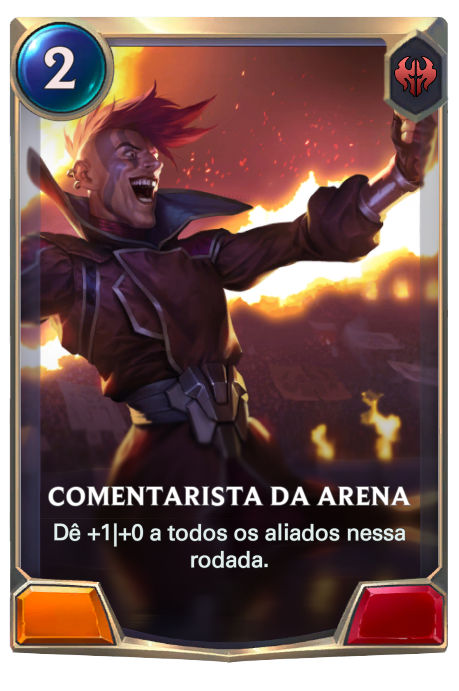
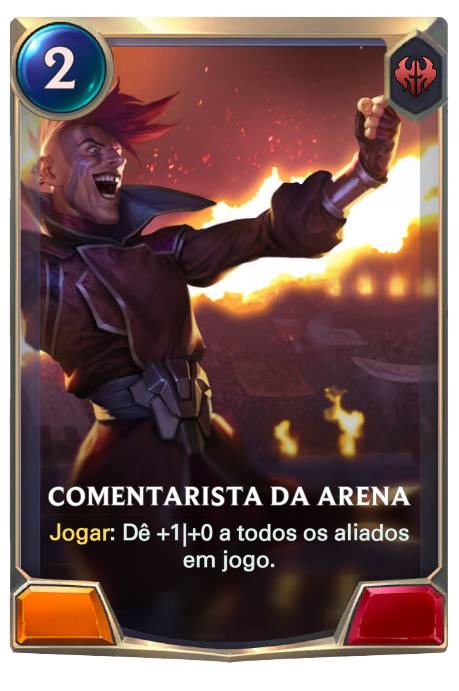
Instanciadas cartas de noxus.

diff --git a/LegendsOfRuneterra/src/menu/Menu.java b/LegendsOfRuneterra/src/menu/Menu.java
@@ -143,8 +143,17 @@ public class Menu {
         Garen garen = new Garen();
         demacia_units.add(garen);
 
+        Lucian lucian = new Lucian();
+        demacia_units.add(lucian);
+
         Tryndamere tryndamere = new Tryndamere();
         freljord_units.add(tryndamere);
+
+        Leblanc leblanc = new Leblanc();
+        noxus_units.add(leblanc);
+
+        Darius darius = new Darius();
+        noxus_units.add(darius);
 
 
         //INICIO SEGUIDORES DE DEMACIA
@@ -292,6 +301,76 @@ public class Menu {
         Effect[] effectGemaDeMana = {new Effect(20, 3, Trigger.PLAY)};
         Spell gemaDeMana = new Spell("Gema de Mana", "", 5, effectGemaDeMana, Region.FRELJORD, "/assets/freljord/gema-de-mana.png");
         freljord_spells.add(gemaDeMana);
+
+
+        //INICIO SEGUIDORES DE NOXUS
+
+
+        Follower retaguardaDaLegiao = new Follower("Retaguarda da Legiao", "", 1, 3, 2, Region.NOXUS, "/assets/noxus/retaguarda-da-legiao.png");
+        noxus_units.add(retaguardaDaLegiao);
+
+
+        Trait[] traitsEspia = {Trait.ELUSIVE};
+        Follower espia = new Follower("Espia", "", 1, 1, 1, Region.NOXUS, traitsEspia, "/assets/noxus/espia.png");
+        noxus_units.add(espia);
+
+
+        Effect[] effectComentaristaDaArena = {new Effect(0, 1,0, Trigger.PLAY)};
+        Follower comentaristaDaArena = new Follower("Comentarista da Arena", "Dê +1/+0 a todos os aliados em jogo.", 2, 2, 2, Region.NOXUS, effectComentaristaDaArena, "/assets/noxus/comentarista-da-arena.png");
+        noxus_units.add(comentaristaDaArena);
+
+
+        Follower trifariano = new Follower("Trifariano", "", 3, 5, 3, Region.NOXUS, "/assets/noxus/trifariano.png");
+        noxus_units.add(trifariano);
+
+
+        Effect[] effectHomemBomba = {new Effect(11, 1, Trigger.LAST_BREATH)};
+        Follower homemBomba = new Follower("Homem Bomba", "Quando eu morrer, cause 1 de dano ao nexus inimigo", 2, 3, 2, Region.NOXUS, effectHomemBomba, "/assets/noxus/homem-bomba.png");
+        noxus_units.add(homemBomba);
+
+
+        Follower capitaoFarron = new Follower("Capitao Farron", "", 7, 8, 9, Region.NOXUS, "/assets/noxus/capitao-farron.png");
+        noxus_units.add(capitaoFarron);
+
+
+        Trait[] traitQuebraEscudos = {Trait.DOUBLE_ATTACK};
+        Follower quebraEscudos = new Follower("Quebra Escudos", "", 5, 4, 3, Region.NOXUS, traitQuebraEscudo, "/assets/noxus/quebra-escudos.png");
+
+
+        // FEITIÇOS DE NOXUS
+
+
+        Effect[] effectDeterminacao = {new Effect(1, 3, 2, Trigger.PLAY)};
+        Spell determinacao = new Spell("Determinacao", "Dê +3/+2 a um aliado nessa rodada.", 2, effectDeterminacao, Region.NOXUS, "/assets/noxus/determinacao.png");
+        noxus_spells.add(determinacao);
+
+
+        Effect[] effectDizimar = {new Effect(11, 4, Trigger.PLAY)};
+        Spell dizimar = new Spell("Dizimar", "Dê 3 de dano ao nexus inimigo.", 5, effectDizimar, Region.NOXUS, "/assets/noxus/dizimar.png");
+        noxus_spells.add(dizimar);
+
+
+        Effect[] effectFioDeLamina = {new Effect(21, 1, Trigger.PLAY)};
+        Spell fioDeLamina = new Spell("Fio de Lamina", "Dê 1 de dano em qualquer coisa.", 1, effectFioDeLamina, Region.NOXUS, "/assets/noxus/fio-de-lamina.png");
+        noxus_spells.add(fioDeLamina);
+
+
+        Effect[] effectFervorNoxiano = {new Effect(21, 3, Trigger.PLAY)};
+        Spell fervorNoxiano = new Spell("Fervor Noxiano", "Dê 3 de dano em qualquer coisa.", 3, effectFervorNoxiano, Region.NOXUS, "/assets/noxus/fervor-noxiano.png");
+        noxus_spells.add(fervorNoxiano);
+
+
+        Effect[] effectVisao = {new Effect(0, 0, 1, Trigger.PLAY)};
+        Spell visao = new Spell("Visao", "Dê +0/+1 a todos os aliados.", 1, effectVisao, Region.NOXUS, "/assets/noxus/visao.png");
+        noxus_spells.add(visao);
+
+
+        Effect[] effectMachadoDuplo = {new Effect(1, 1, 0, Trigger.PLAY)};
+        Spell machadoDuplo = new Spell("Machado Duplo", "Dê +1/+0 a um aliado nessa rodada.", 0, effectMachadoDuplo, Region.NOXUS, "/assets/noxus/machado-duplo.png");
+        noxus_spells.add(machadoDuplo);
+
+
+
     }
 
     public ArrayList<Card> getUnitList(Region region){

diff --git a/LegendsOfRuneterra/src/CardsSelectionController.java b/LegendsOfRuneterra/src/CardsSelectionController.java
@@ -10,7 +10,6 @@ import card.Region;
 import card.Spell;
 import javafx.scene.paint.Color;
 import game.Deck;
-import javafx.beans.value.ObservableBooleanValue;
 import javafx.collections.FXCollections;
 import javafx.collections.ObservableList;
 import javafx.fxml.FXML;
@@ -38,15 +37,23 @@ public class CardsSelectionController implements Initializable {
   private JFXListView<Follower> followersFreljord;
 
   @FXML
+  private JFXListView<Follower> followersNoxus;
+
+  @FXML
   private JFXListView<Spell> spellsDemacia; 
 
   @FXML
   private JFXListView<Spell> spellsFreljord;
 
+  @FXML
+  private JFXListView<Spell> spellsNoxus;
+
   ObservableList<Follower> ObservableUnitsDemacia = FXCollections.observableArrayList();
   ObservableList<Follower> ObservableUnitsFreljord = FXCollections.observableArrayList();
+  ObservableList<Follower> ObservableUnitsNoxus = FXCollections.observableArrayList();
   ObservableList<Spell> ObservableSpellsDemacia = FXCollections.observableArrayList();
   ObservableList<Spell> ObservableSpellsFreljord = FXCollections.observableArrayList();
+  ObservableList<Spell> ObservableSpellsNoxus = FXCollections.observableArrayList();
 
   static class CellUnits extends ListCell<Follower> {
     HBox vbox = new HBox();
@@ -152,19 +159,29 @@ public class CardsSelectionController implements Initializable {
 
     insertIntoObservable(ObservableUnitsDemacia, menu.getUnitList(Region.DEMACIA));
     insertIntoObservable(ObservableUnitsFreljord, menu.getUnitList(Region.FRELJORD));
+    insertIntoObservable(ObservableUnitsNoxus, menu.getUnitList(Region.NOXUS));
+
     followersDemacia.setItems(ObservableUnitsDemacia);
     followersDemacia.setCellFactory(param -> new CellUnits(menu.getDecks().get(menu.getDecks().size() - 1), numOfCards));
 
     followersFreljord.setItems(ObservableUnitsFreljord);
     followersFreljord.setCellFactory(param -> new CellUnits(menu.getDecks().get(menu.getDecks().size() - 1), numOfCards));
 
+    followersNoxus.setItems(ObservableUnitsNoxus);
+    followersNoxus.setCellFactory(param -> new CellUnits(menu.getDecks().get(menu.getDecks().size() - 1), numOfCards));
+
     insertIntoObservable(ObservableSpellsDemacia, menu.getSpellList(Region.DEMACIA));
     insertIntoObservable(ObservableSpellsFreljord, menu.getSpellList(Region.FRELJORD));
+    insertIntoObservable(ObservableSpellsNoxus, menu.getSpellList(Region.NOXUS));
+
     spellsDemacia.setItems(ObservableSpellsDemacia);
     spellsDemacia.setCellFactory(param -> new CellSpells(menu.getDecks().get(menu.getDecks().size() - 1), numOfCards));
 
     spellsFreljord.setItems(ObservableSpellsFreljord);
     spellsFreljord.setCellFactory(param -> new CellSpells(menu.getDecks().get(menu.getDecks().size() - 1), numOfCards));
+
+    spellsNoxus.setItems(ObservableSpellsNoxus);
+    spellsNoxus.setCellFactory(param -> new CellSpells(menu.getDecks().get(menu.getDecks().size() - 1), numOfCards));
 
   }
 

diff --git a/LegendsOfRuneterra/src/card/champion/noxus/Leblanc.java b/LegendsOfRuneterra/src/card/champion/noxus/Leblanc.java
@@ -1,5 +1,7 @@
 package card.champion.noxus;
 
+import org.omg.CORBA.TRANSACTION_MODE;
+
 import card.Effect;
 import card.Region;
 import card.Trait;
@@ -10,9 +12,9 @@ public class Leblanc extends Champion {
 
   private int damageDone;
 
-  public Leblanc(String name, String description, int cost, int baseHealth, int basePower, Region region,
-      Effect[] newEffects, Trait[] traits) {
-    super(name, description, cost, baseHealth, basePower, region, newEffects, traits);
+  public Leblanc() {
+    super("LeBlanc", "Eu subo de nível se causar 10 de dano.", 3, 2, 5, Region.NOXUS, "/assets/noxus/leblanc.png");
+    traits.add(Trait.QUICK_ATTACK);
 
     this.damageDone = 0;
   }
@@ -31,7 +33,7 @@ public class Leblanc extends Champion {
 
   @Override
   public boolean checkEvolution() {
-    if (damageDone >= 15) {
+    if (damageDone >= 10) {
       return true;
     }
     return false;

diff --git a/LegendsOfRuneterra/src/card/champion/noxus/Darius.java b/LegendsOfRuneterra/src/card/champion/noxus/Darius.java
@@ -10,9 +10,9 @@ public class Darius extends Champion {
 
   private int nexusLife;
 
-  public Darius(String name, String description, int cost, int baseHealth, int basePower, Region region,
-      Effect[] newEffects, Trait[] traits) {
-    super(name, description, cost, baseHealth, basePower, region, newEffects, traits);
+  public Darius() {
+    super("Darius", "Subo de nível se o nexus inimigo tiver 10 ou menos de vida.", 6, 5, 6, Region.NOXUS, "/assets/noxus/darius.png");
+    traits.add(Trait.TOUGH);
   }
 
   @Override

diff --git a/LegendsOfRuneterra/src/card/Effect.java b/LegendsOfRuneterra/src/card/Effect.java
@@ -233,6 +233,8 @@ public class Effect implements Cloneable{
             case 19://Dê n de dano a um inimigo se ele tiver 0 de poder. Senão, deixe ele com 0 de poder nesta rodada.
 
             case 20://Cura seu nexus em n e ganha uma gema de mana vazia.
+
+            case 21://Dê n em dano em qualquer coisa.
         }
         scan.close();
     }

diff --git a/LegendsOfRuneterra/src/card/champion/Champion.java b/LegendsOfRuneterra/src/card/champion/Champion.java
@@ -13,6 +13,6 @@ public abstract class Champion extends Follower {
 
   public abstract void evolve();
 
-  public abstract void checkEvolution();
+  public abstract boolean checkEvolution();
 
 }
